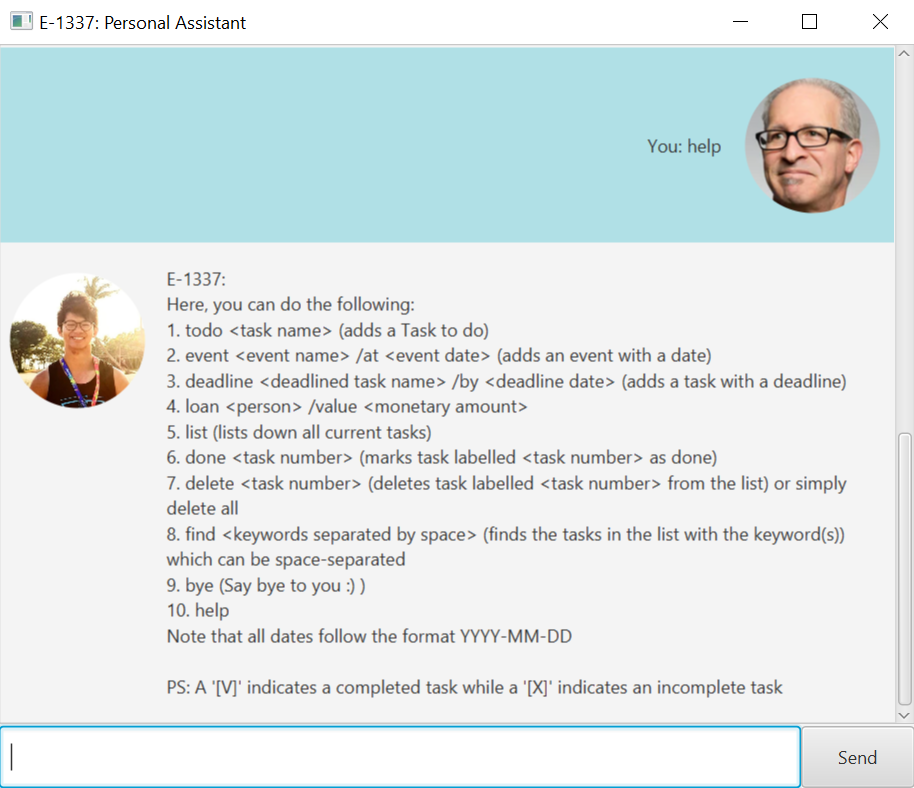
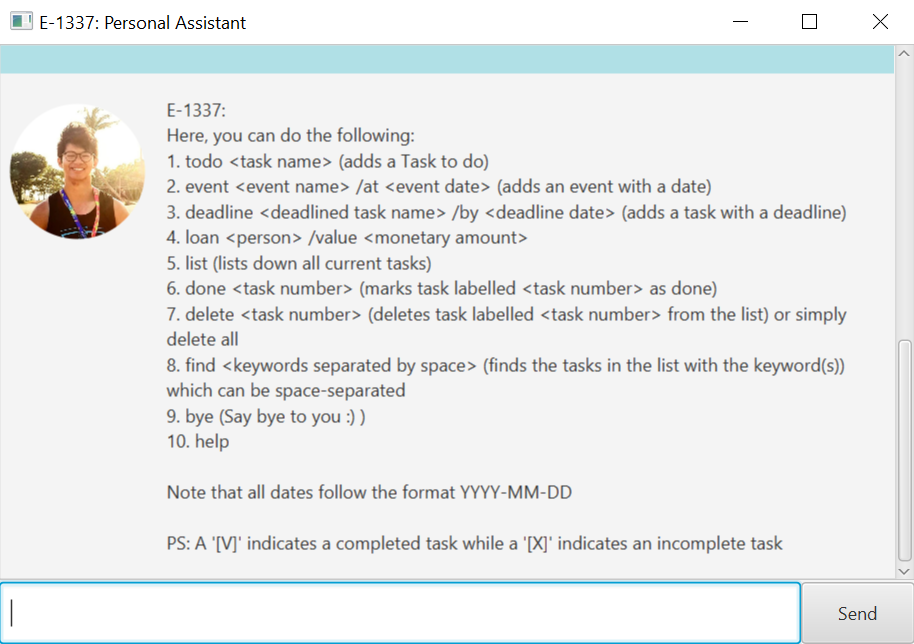
Fixed checkstyle. Added an additional line for clarity of message for help command.

diff --git a/src/main/java/duke/Ui.java b/src/main/java/duke/Ui.java
@@ -61,6 +61,7 @@ public class Ui {
                 + "which can be space-separated\n"
                 + "9. bye (Say bye to you :) )\n"
                 + "10. help\n"
+                + "\n"
                 + "Note that all dates follow the format YYYY-MM-DD\n"
                 + "\n"
                 + "PS: A '[V]' indicates a completed task while a '[X]' indicates an incomplete task";
@@ -69,7 +70,6 @@ public class Ui {
     /**
      * Gives String indicating removal of a given task, of its index then and the current number of Tasks remaining.
      *
-     * @param index index of the Task to remove.
      * @param removedTask the Task which we are to remove.
      * @param allTasks TaskList containing all the Tasks in Duke.
      * @return String indicating removal of a given Task, of its index then and the current number of Tasks remaining.
